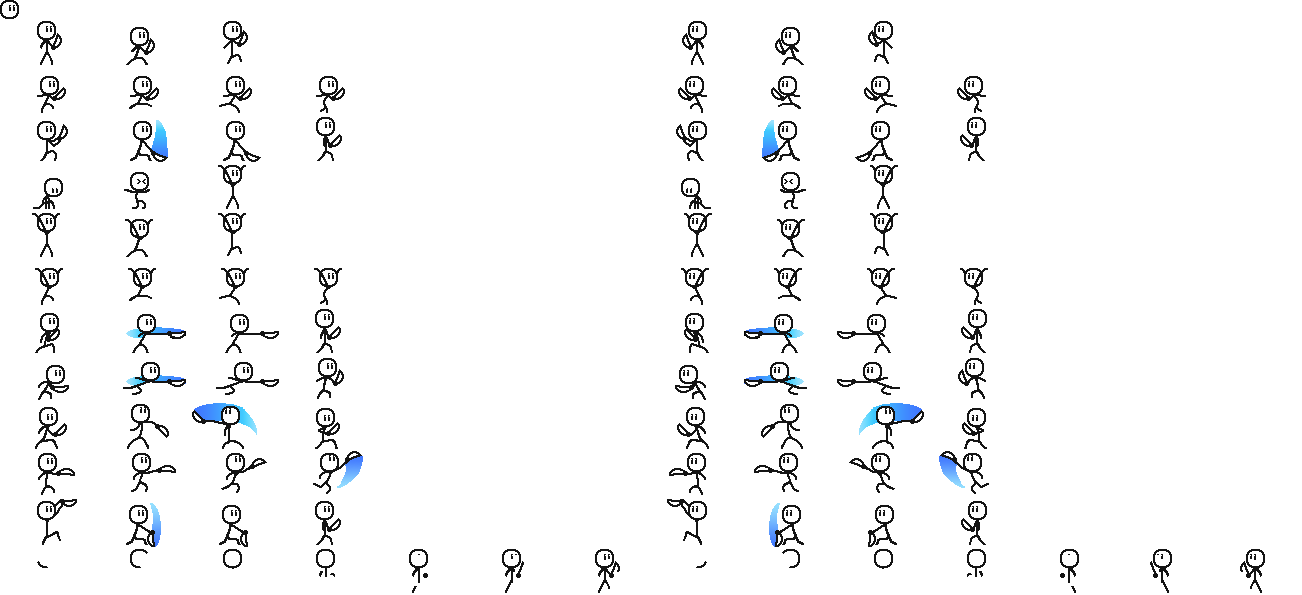
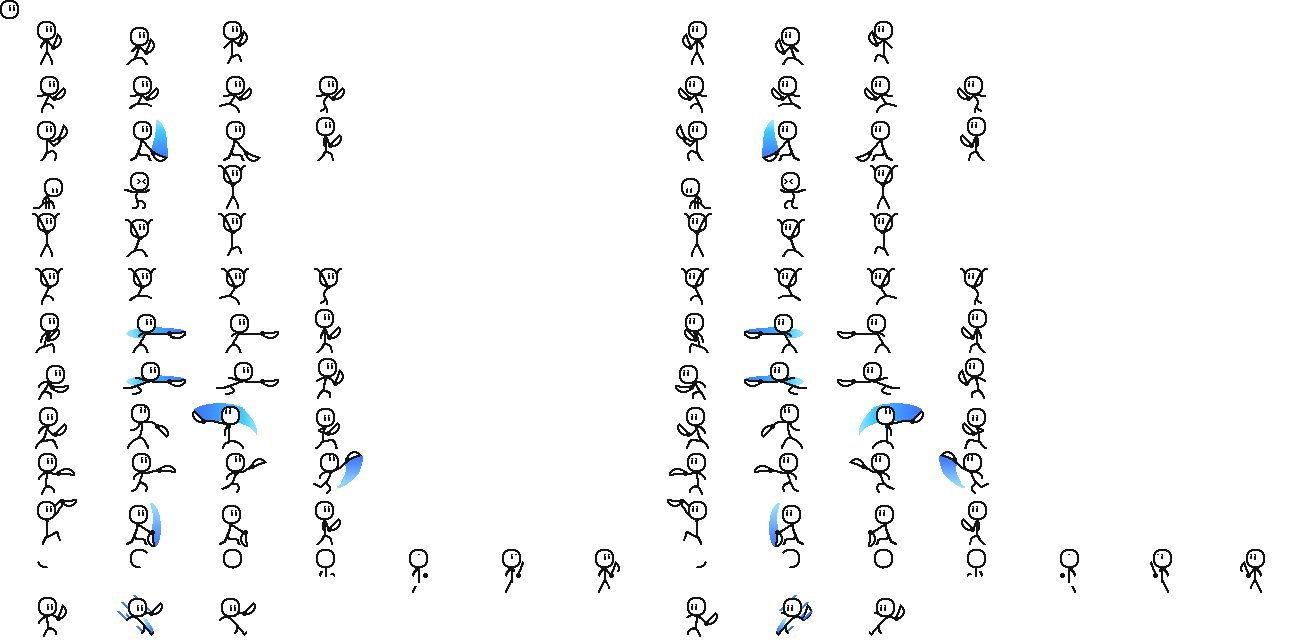
Downward kick animation

diff --git a/src/doodleman/Doodleman.js b/src/doodleman/Doodleman.js
@@ -307,13 +307,13 @@ DMOs.Doodleman.defineAction("air-attack", 10, 10, (e, doodleman, frame) => {
 				doodleman.targetMoveSpeed = doodleman.slowMoveSpeed;
 				doodleman.velX = keys.right? diagonal : -diagonal;
 				doodleman.velY = diagonal;
-				doodleman.animate(keys.up? "attack-upward-air" : "attack", doodleman.direction, duration);
+				doodleman.animate("attack-upward-air", doodleman.direction, duration);
 			}
 			// down diagonals
 			else {
 				doodleman.velX = keys.right? diagonal : -diagonal;
 				doodleman.velY = -diagonal;
-	  			doodleman.animate(keys.up? "attack-upward-air" : "attack", doodleman.direction, duration);
+	  			doodleman.animate("attack-air-kick", doodleman.direction, duration);
 			}
 		}
 	}
